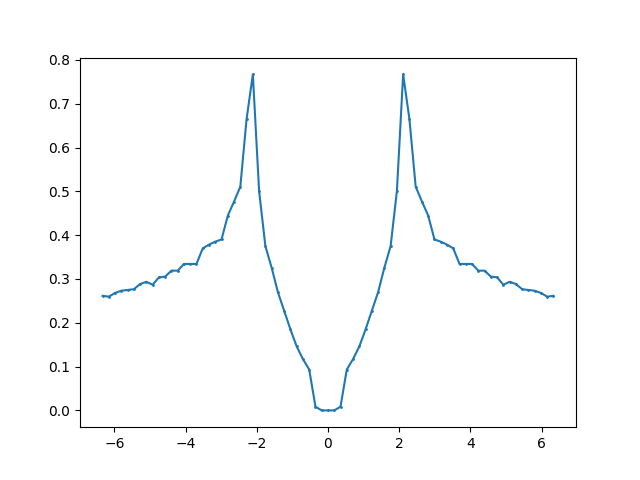
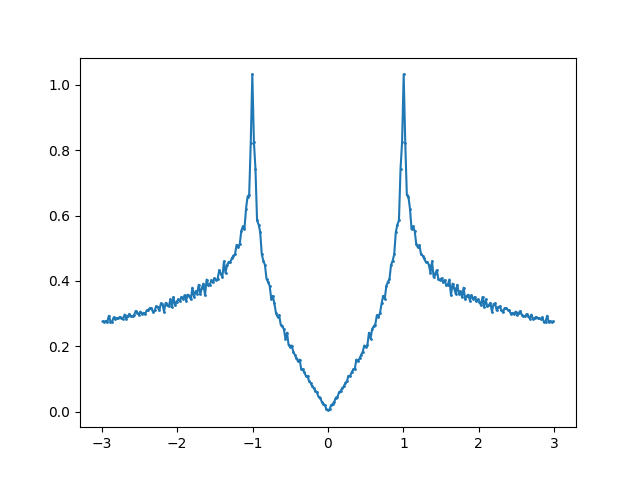
finished with AFM

diff --git a/AFM_honeycomb_test/Hamiltonian.py b/AFM_honeycomb_test/Hamiltonian.py
@@ -7,6 +7,9 @@ import Lattice
 from scipy.interpolate import interp1d
 from scipy.linalg import circulant
 import sys  
+from time import sleep
+from parfor import parfor
+from scipy.optimize import minimize
 
 class Ham():
     def __init__(self, hbvf, latt, rescale=None):
@@ -58,11 +61,30 @@ class Ham():
         
         
         psi=np.zeros([np.size(psi1), 2])+0*1j
-        psi[:,0]=psi1
-        psi[:,1]=psi2
+        psi[:,0]=psi1.flatten()
+        psi[:,1]=psi2.flatten()
 
         
         return np.array([-hk_n,+hk_n ]), psi
+    
+    def eigens2(self, kx,ky, Mz=0):
+        [GM1,GM2]=self.latt.LMvec
+        
+        Mzev=Mz*self.hvkd 
+
+        e1=(GM1+GM2)/3
+        e2=(-2*GM1+GM2)/3
+        e3=(-2*GM2+GM1)/3
+        
+        
+        W3=self.hvkd #0.00375/3  #in ev
+        k=np.array([kx,ky])
+        
+        ee=(np.exp(1j*k@e1)+np.exp(1j*k@e2)+np.exp(1j*k@e3))
+        hk=W3*ee
+        hk_n=np.sqrt( np.abs(hk)**2 +Mzev**2 )
+        
+        return np.array([-hk_n,+hk_n ])
     
     def ExtendE(self,E_k , umklapp):
         Gu=self.latt.Umklapp_List(umklapp)
@@ -117,6 +139,29 @@ class Dispersion():
         
         return [psi_plus,Ene_valley_plus]
     
+    def precompute_E_psi_1v_v2(self,Mz=0):
+        
+        Ene_valley_plus_a=np.empty((0))
+        psi_plus_a=[]
+
+
+        print("starting dispersion ..........")
+        
+        s=time.time()
+        @parfor(range(self.Npoi1bz), (0,), bar=False)
+        def fun(l, mu):
+            E1=self.hpl.eigens2(self.KX1bz[l],self.KY1bz[l],Mz)
+            return E1
+        Ene_valley_plus_a=np.array(fun)
+        e=time.time()
+        print("time to diag over MBZ", e-s)
+        ##relevant wavefunctions and energies for the + valley
+
+        Ene_valley_plus= np.reshape(Ene_valley_plus_a,[self.Npoi1bz,self.nbands])
+
+        
+        return Ene_valley_plus
+
 
     ###########DOS FOR DEBUGGING
 
@@ -128,11 +173,14 @@ class Dispersion():
         for i in range(nbands):
             eps_l.append(np.mean( np.abs( np.diff( Ene_valley_plus[:,i].flatten() )  ) )/2)
         eps_a=np.array(eps_l)
-        eps=np.min(eps_a)*10
+        eps=np.min(eps_a)*5
         print("and epsilon is ...", eps)
         
         mmin=np.min(Ene_valley_plus)
         mmax=np.max(Ene_valley_plus)
+        
+        print("THE BANDWIDTH IS....", mmax-mmin)
+        
         NN=int((mmax-mmin)/eps)+int((int((mmax-mmin)/eps)+1)%2) #making sure there is a bin at zero energy
         binn=np.linspace(mmin,mmax,NN+1)
         valt=np.zeros(NN)
@@ -145,7 +193,7 @@ class Dispersion():
         bins=(binn[:-1]+binn[1:])/2
         
         
-        valt=2*valt
+        valt=valt
         f2 = interp1d(binn[:-1],valt, kind='cubic')
         de=(bins[1]-bins[0])
         print("sum of the hist, normed?", np.sum(valt)*de)
@@ -353,15 +401,16 @@ class Dispersion():
             return np.heaviside(-e,0.5)
         
     
-    def calc_energy_MZ(self,T, mu, MZ):
+    def calc_energy_MZ(self,MZ,T, mu):
         T_ev=T*self.hpl.hvkd 
         mu_ev=mu*self.hpl.hvkd 
         U=3*self.hpl.hvkd  #to reproduce liang-fu;s calculation
-        [psi_plus,Ene_valley_plus_dos]=self.precompute_E_psi_1v(MZ)
+        # [ppp,Ene_valley_plus_dos]=self.precompute_E_psi_1v(MZ)
+        Ene_valley_plus_dos=self.precompute_E_psi_1v_v2(MZ)
         [earr, dos_arr, f2 ]=self.DOS(Ene_valley_plus_dos)
         de=earr[1]-earr[0]
         inte=np.trapz(dos_arr*earr*self.nf(earr-mu_ev,T_ev))*de +(MZ*self.hpl.hvkd )**2 /U
-        
+        print(MZ, inte)
         plt.plot(earr, dos_arr)
         plt.scatter(earr, dos_arr, s=1)
         plt.savefig("dos1.png")
@@ -401,7 +450,8 @@ def main() -> int:
     latt=Lattice.TriangLattice(Nsamp,0)
     
     #parameters for the bandstructure
-    hbvf = 2.1354; # eV
+    hbvf = 1#2.1354; # eV
+    BW=6
     print("hbvf is ..",hbvf )
     
     #generating the dispersion 
@@ -420,18 +470,44 @@ def main() -> int:
     print("CHEMICAL POTENTIAL AND FILLING", mu, filling)
     print(mu_values,fillings)
     
-    MZ=0.2
-    T=0.15
-    mus=[0, 0.005,0.01,0.02, 0.025, 0.03]
+    MZ=0.0
+    T=.15
+    mu=0
+    fills=[0, 0.005,0.01,0.02, 0.025, 0.03]
     s=time.time()
-    Energy_calc=disp.calc_energy_MZ(T, mu, MZ)
+    Energy_calc=disp.calc_energy_MZ(MZ,T, mu, )
     e=time.time()
     print(Energy_calc, "time for energy calc", e-s)
     
     
-
+    
+    M_list=[]
+    MZ=0.
+    # TT=np.arange(0.01,0.5,0.02)
+    TT=np.linspace(0.01,0.25,10)*BW
+    
+    
+    for T in TT:
+    # for T in [.001]:
+        s=time.time()
+        res=minimize(disp.calc_energy_MZ, MZ, args=(T,mu), method='COBYLA')
+        e=time.time()
+        MZ=res.x
+        M_list.append(MZ)
+        print(T,MZ,disp.calc_energy_MZ( MZ,T, mu, ), "time for minimization", e-s)
+    
+    M=np.array(M_list)/2
+    T=TT/BW
+    plt.plot(T,M)
+    plt.scatter(T,M)
+    plt.ylim([0,np.max(M)])
+    
+    plt.savefig("MzT2.png")
+    plt.close()
+    
     
 
+            
 if __name__ == '__main__':
     import sys
     sys.exit(main())  # next section explains the use of sys.exit
